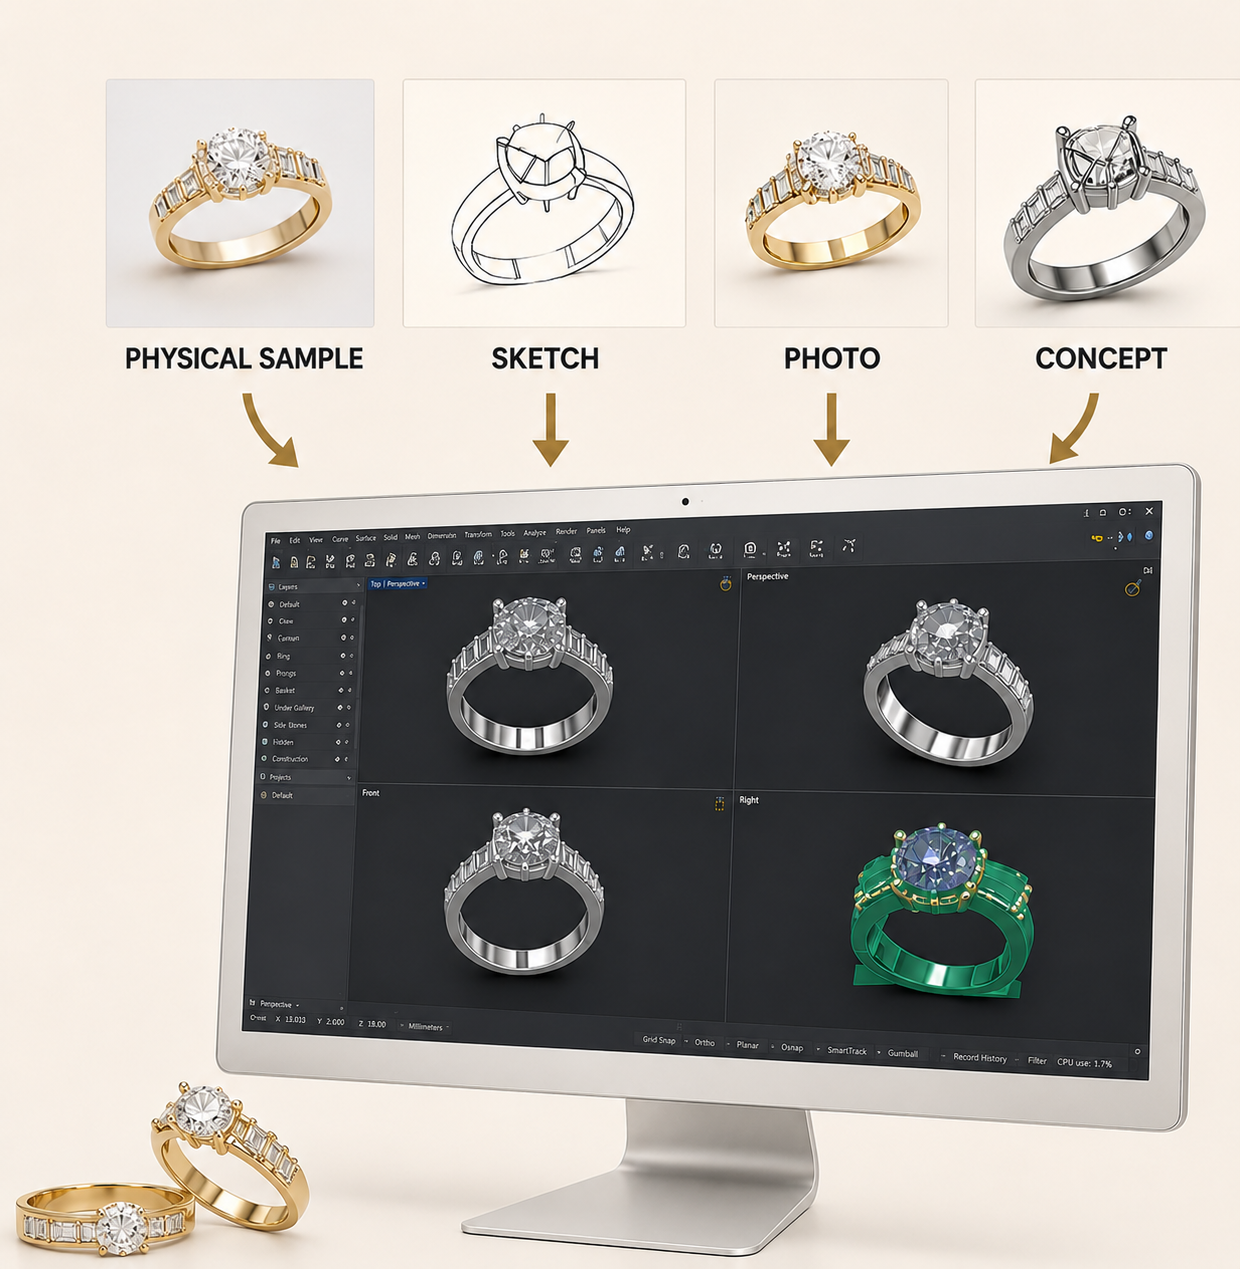
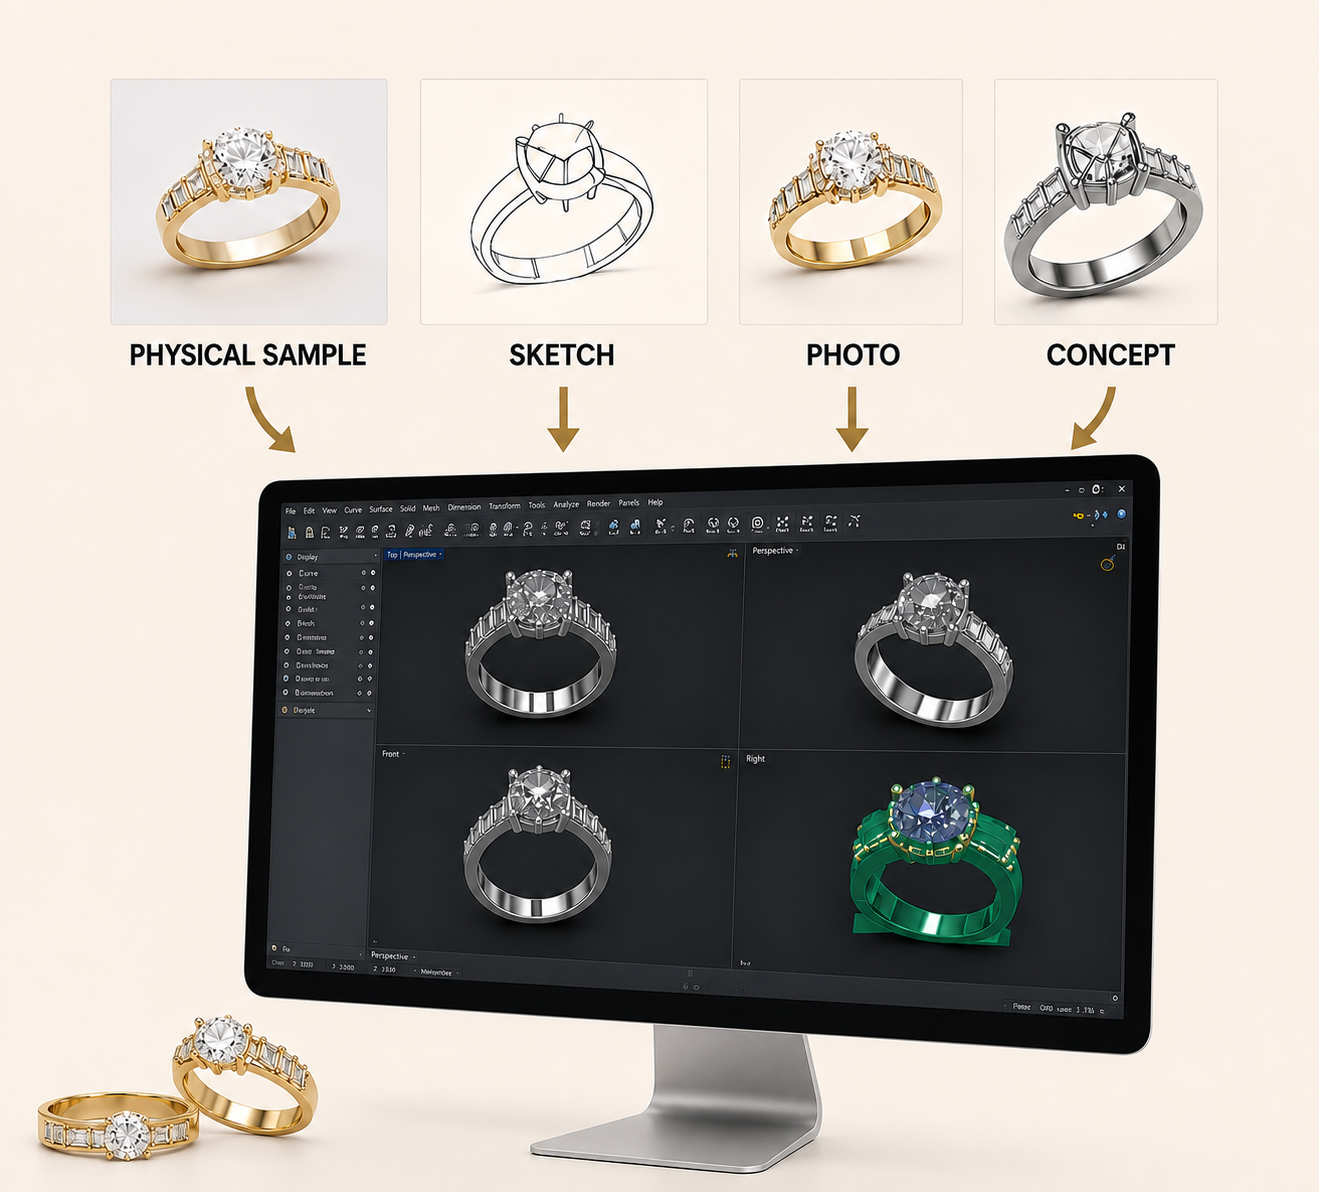
seo: improve image alt text on service path cards

Changed region(s): [[0.0, 0.0931, 0.9806, 0.9933], [0.521, 0.6208, 0.6129, 0.6518], [0.2758, 0.6208, 0.3065, 0.6518]]

diff --git a/custom-jewelry-service.html b/custom-jewelry-service.html
@@ -196,7 +196,7 @@
 
                 <div class="service-path-card-v2">
                     <div class="sp-img-wrap">
-                        <img src="images/service-path-oem.png" alt="OEM production — 3D jewelry design on screen with finished gold rings" loading="lazy">
+                        <img src="images/service-path-oem.png" alt="OEM jewelry manufacturing — custom jewelry factory China accepts 3D and JCAD source files for production" loading="lazy">
                     </div>
                     <div class="sp-body">
                         <div class="sp-badge">Solution 1</div>
@@ -225,7 +225,7 @@
 
                 <div class="service-path-card-v2">
                     <div class="sp-img-wrap">
-                        <img src="images/service-path-design.png" alt="Design and manufacturing — sketch to CAD modeling process" loading="lazy">
+                        <img src="images/service-path-design.png" alt="Custom jewelry design service China — physical sample sketch photo or concept to 3D CAD model and production" loading="lazy">
                     </div>
                     <div class="sp-body">
                         <div class="sp-badge">Solution 2</div>